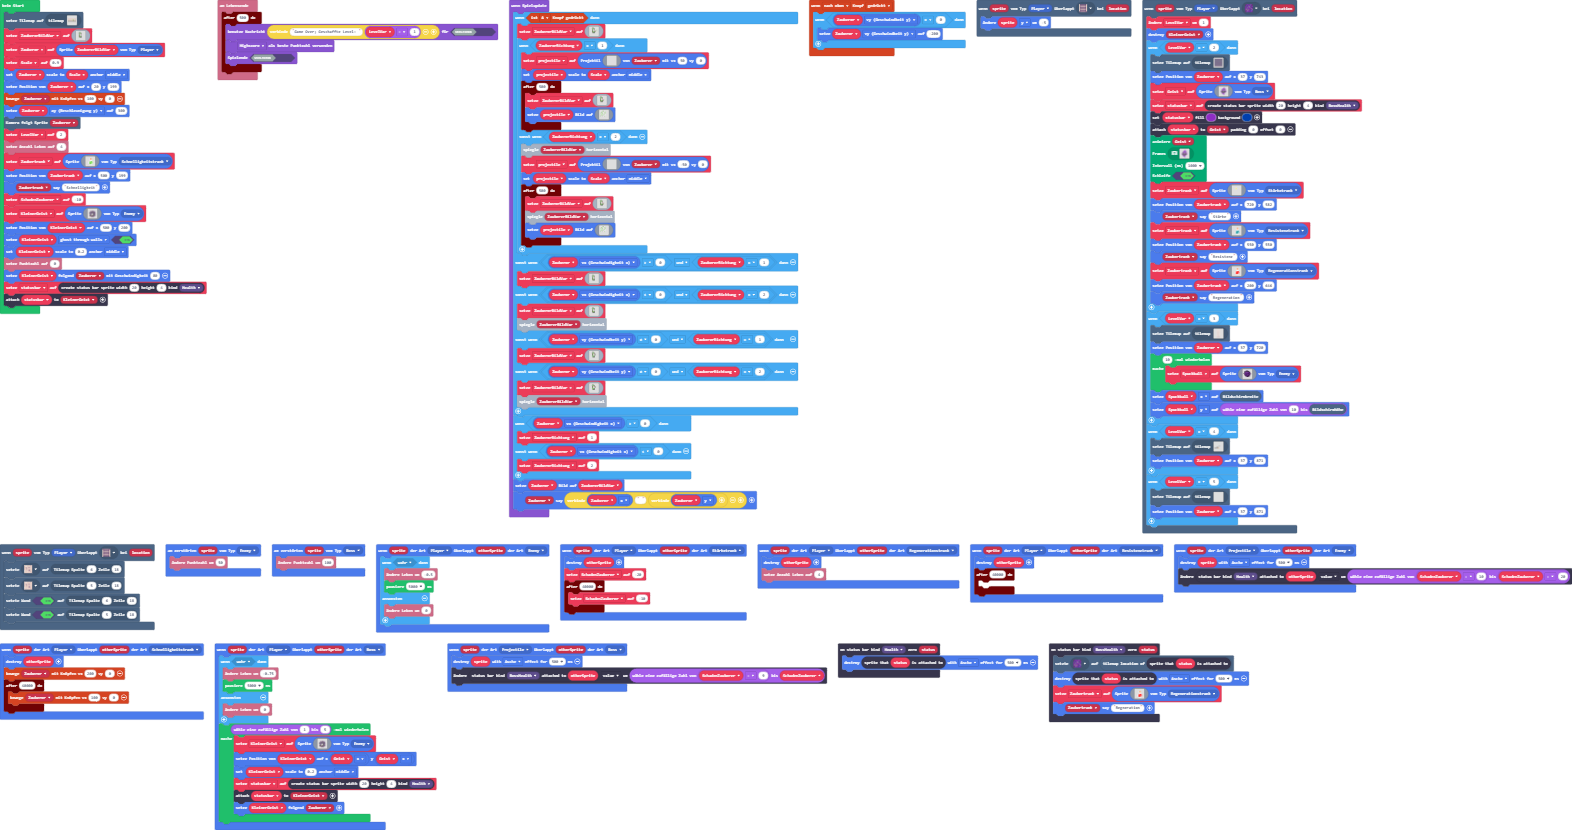
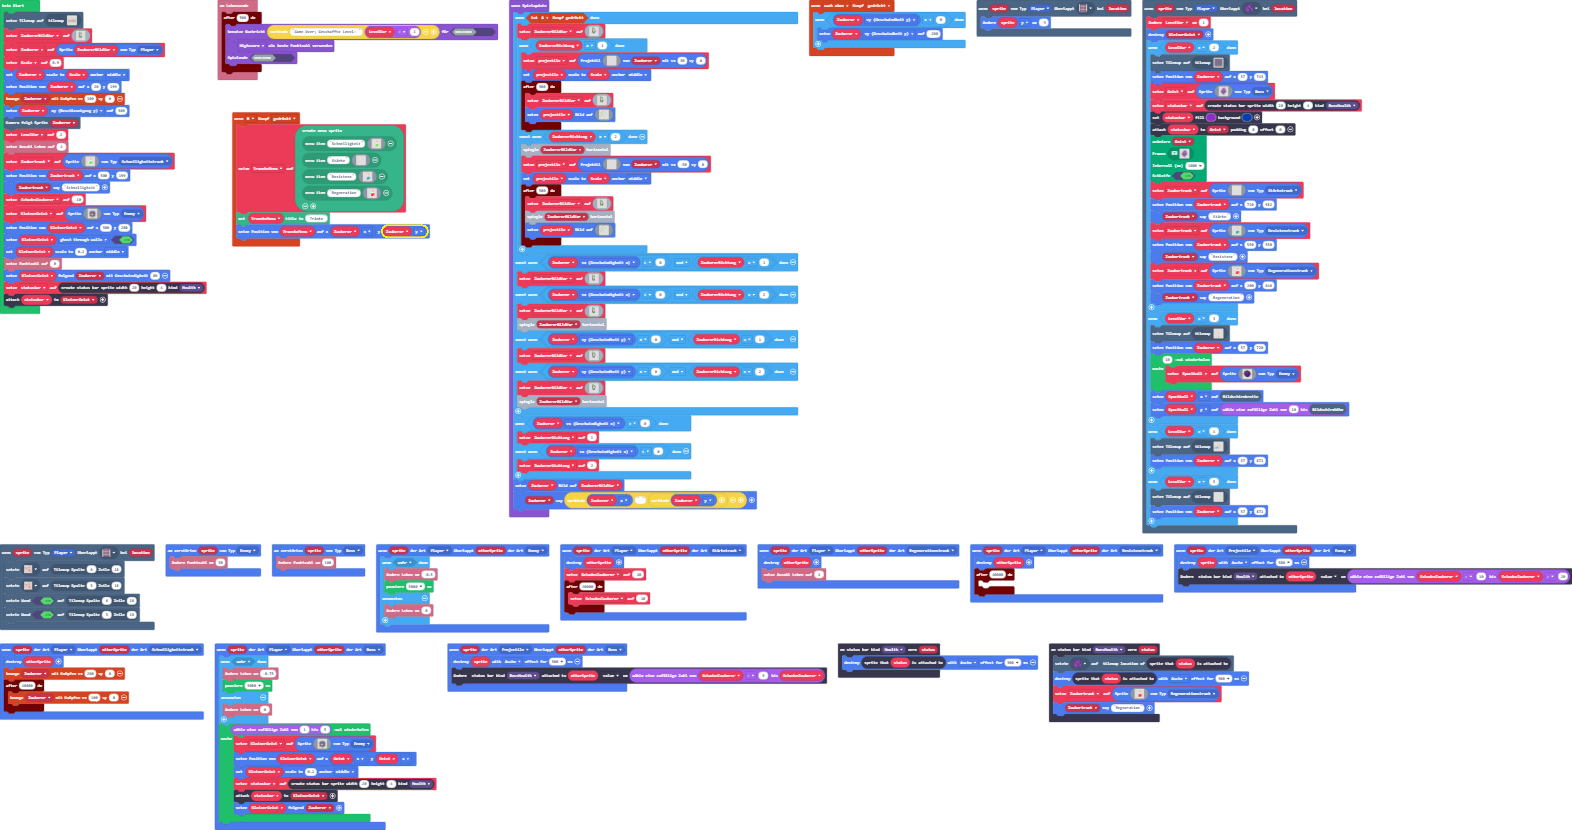
Aktualisiere main.blocks, main.ts

Changed region(s): [[0.1247, 0.1205, 0.2805, 0.3012]]

diff --git a/main.ts b/main.ts
@@ -111,6 +111,16 @@ info.onLifeZero(function () {
 sprites.onDestroyed(SpriteKind.Enemy, function (sprite) {
     info.changeScoreBy(50)
 })
+controller.B.onEvent(ControllerButtonEvent.Pressed, function () {
+    TraenkeMenu = miniMenu.createMenu(
+    miniMenu.createMenuItem("Schnelligkeit", assets.image`Schnelligkeitstrank`),
+    miniMenu.createMenuItem("Stärke", assets.image`Stärketrank`),
+    miniMenu.createMenuItem("Resistenz", assets.image`Resistenztrank`),
+    miniMenu.createMenuItem("Regneration", assets.image`Regenerationstrank`)
+    )
+    TraenkeMenu.setTitle("Tränke")
+    TraenkeMenu.setPosition(Zauberer.x, Zauberer.y)
+})
 sprites.onOverlap(SpriteKind.Projectile, SpriteKind.Enemy, function (sprite, otherSprite) {
     sprites.destroy(sprite, effects.ashes, 500)
     statusbars.getStatusBarAttachedTo(StatusBarKind.Health, otherSprite).value += randint(SchadenZauberer - 10, SchadenZauberer - 20)
@@ -147,6 +157,7 @@ sprites.onOverlap(SpriteKind.Player, SpriteKind.Boss, function (sprite, otherSpr
 })
 let projectile: Sprite = null
 let ZaubererRichtung = 0
+let TraenkeMenu: miniMenu.MenuSprite = null
 let Spuckball: Sprite = null
 let Geist: Sprite = null
 let statusbar: StatusBarSprite = null
